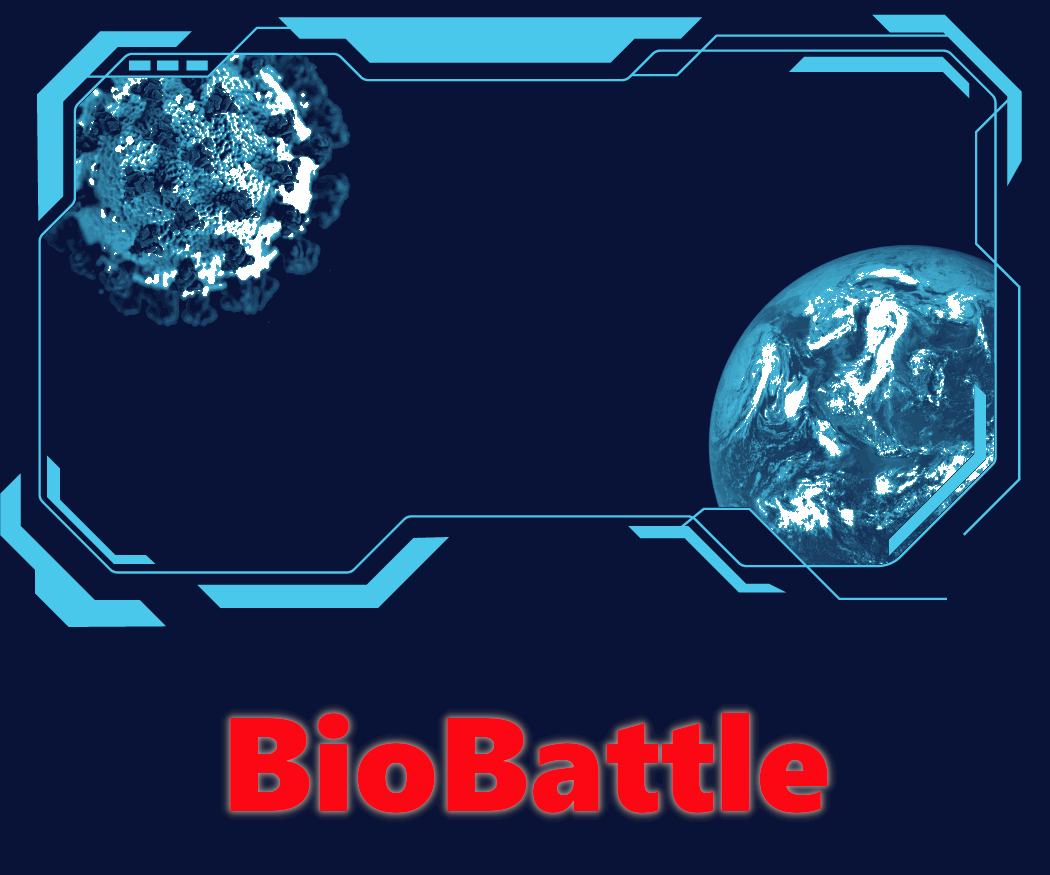
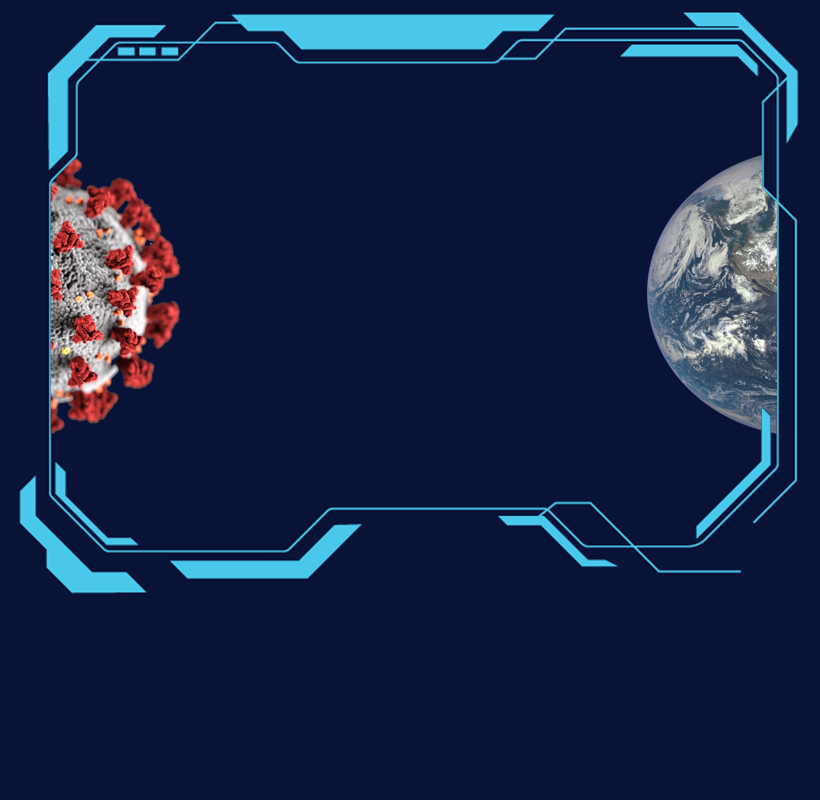
new images with different orientations

Changed region(s): [[0.0, 0.0, 0.9756, 0.75], [0.2134, 0.8125, 0.7927, 0.9375]]

diff --git a/README.md b/README.md
@@ -1,7 +1,7 @@
 # [BioBattle](https://hopkinsje09.000webhostapp.com/biobattle/)
 
 Play the Game at https://hopkinsje09.000webhostapp.com/biobattle/<br>
-Clone the Code - https://github.com/hopkeno/ECU-ICTN6815-Group2.git
+Clone the Code - https://github.com/hopkeno/ECU-ICTN6815-Group2.git<br>
 
 A playable javascript game for ECU course ICTN6815 
 Designed and created by Group 2
